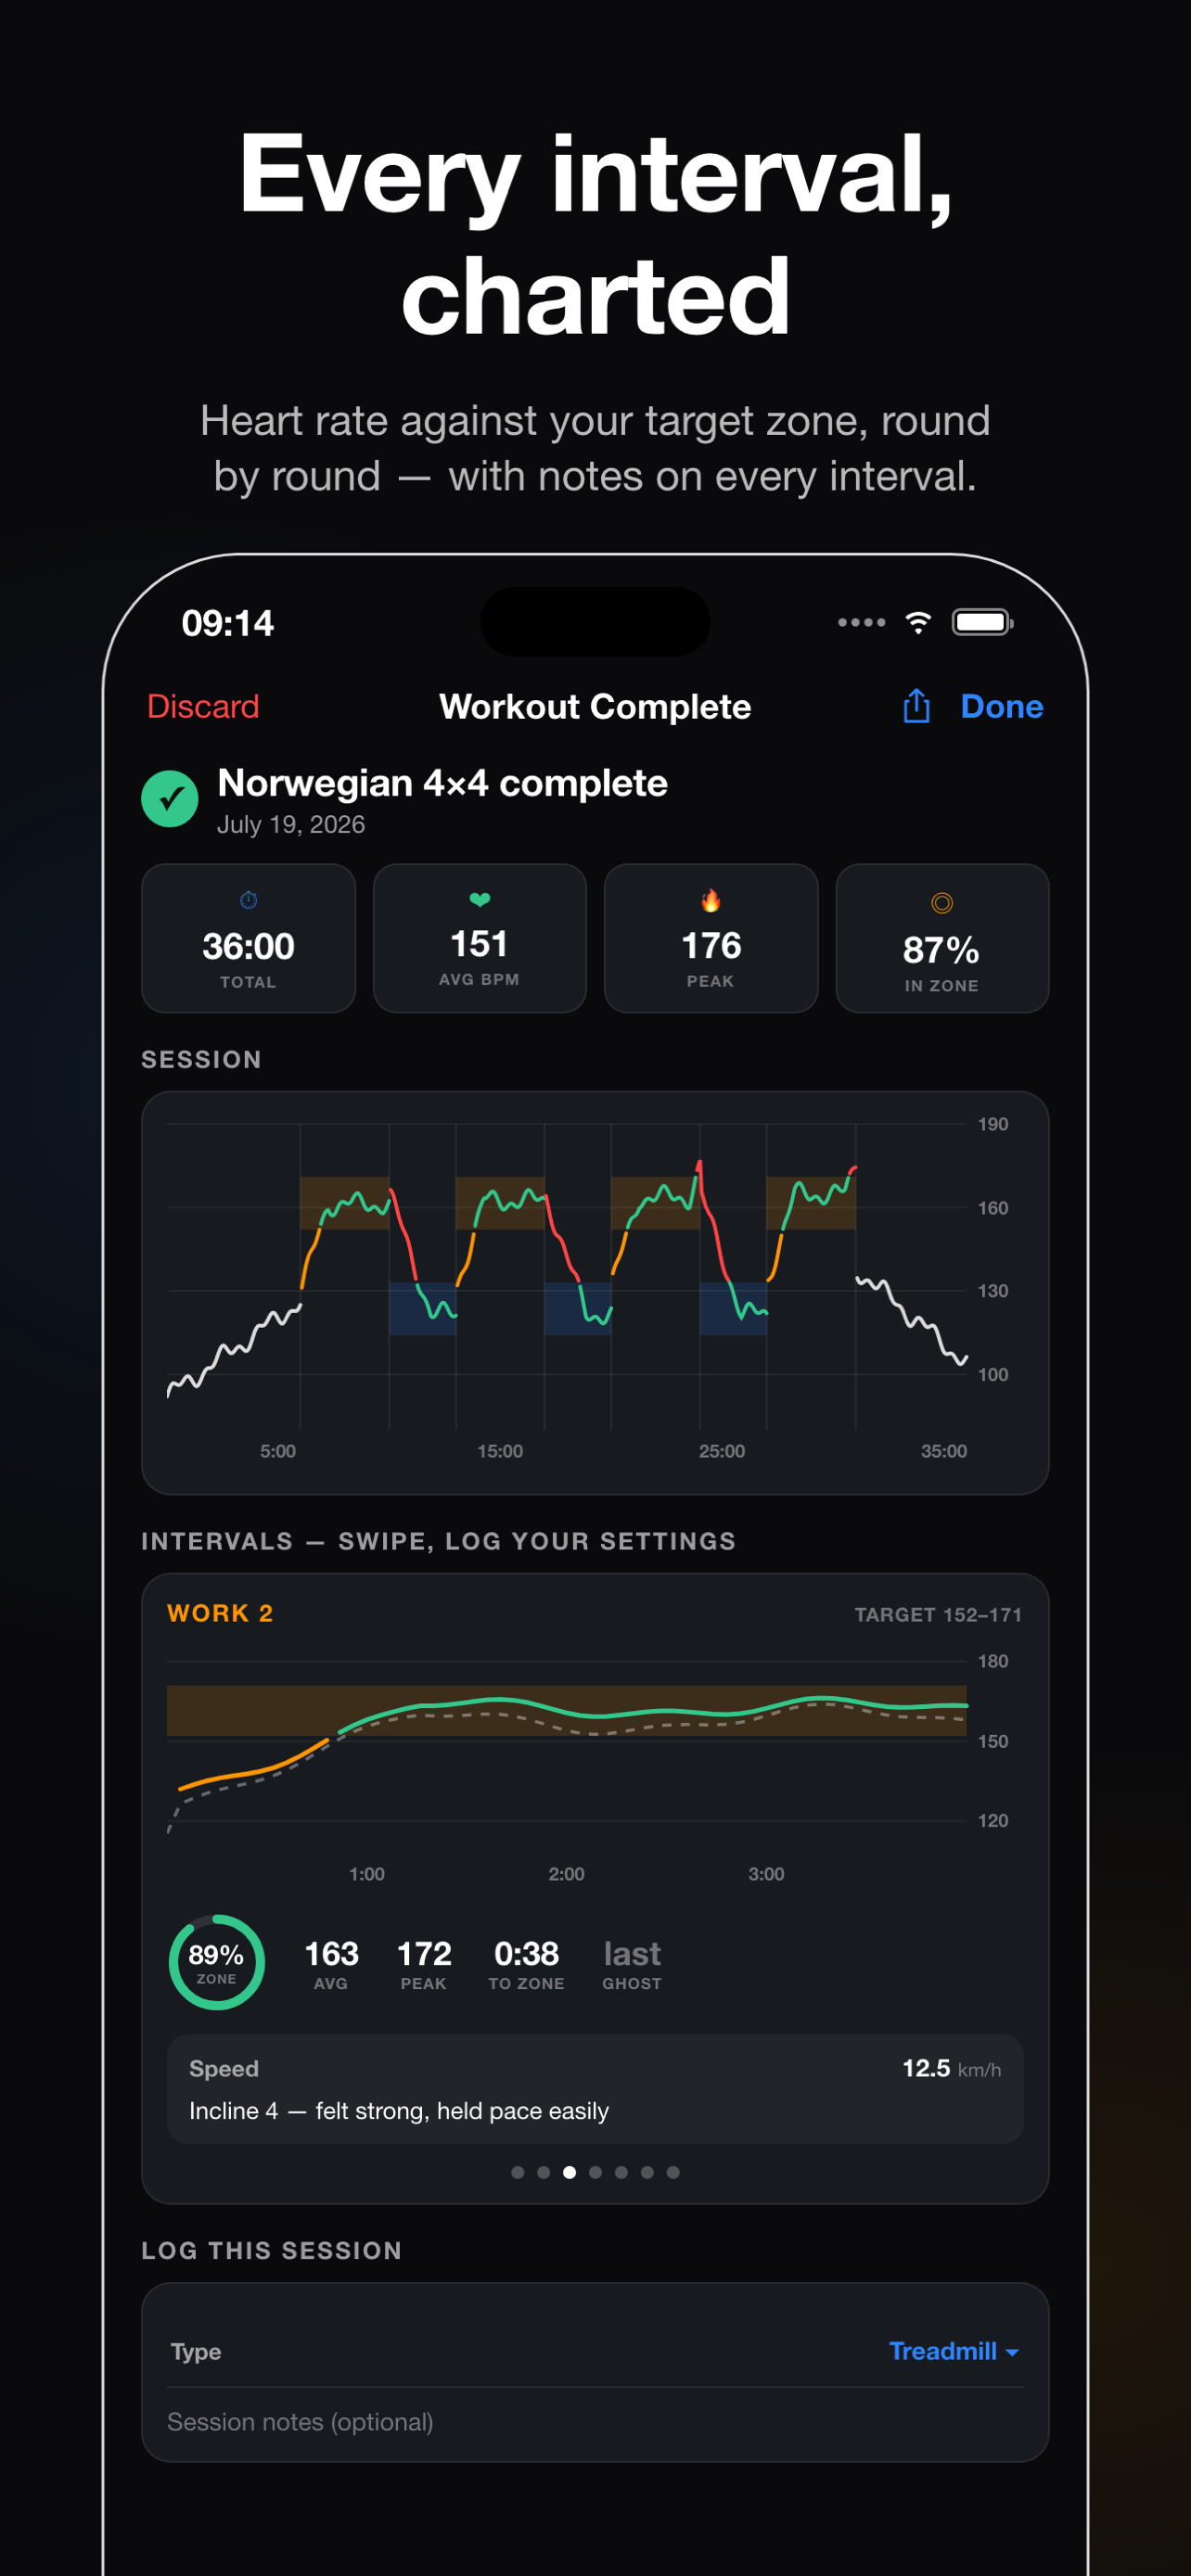
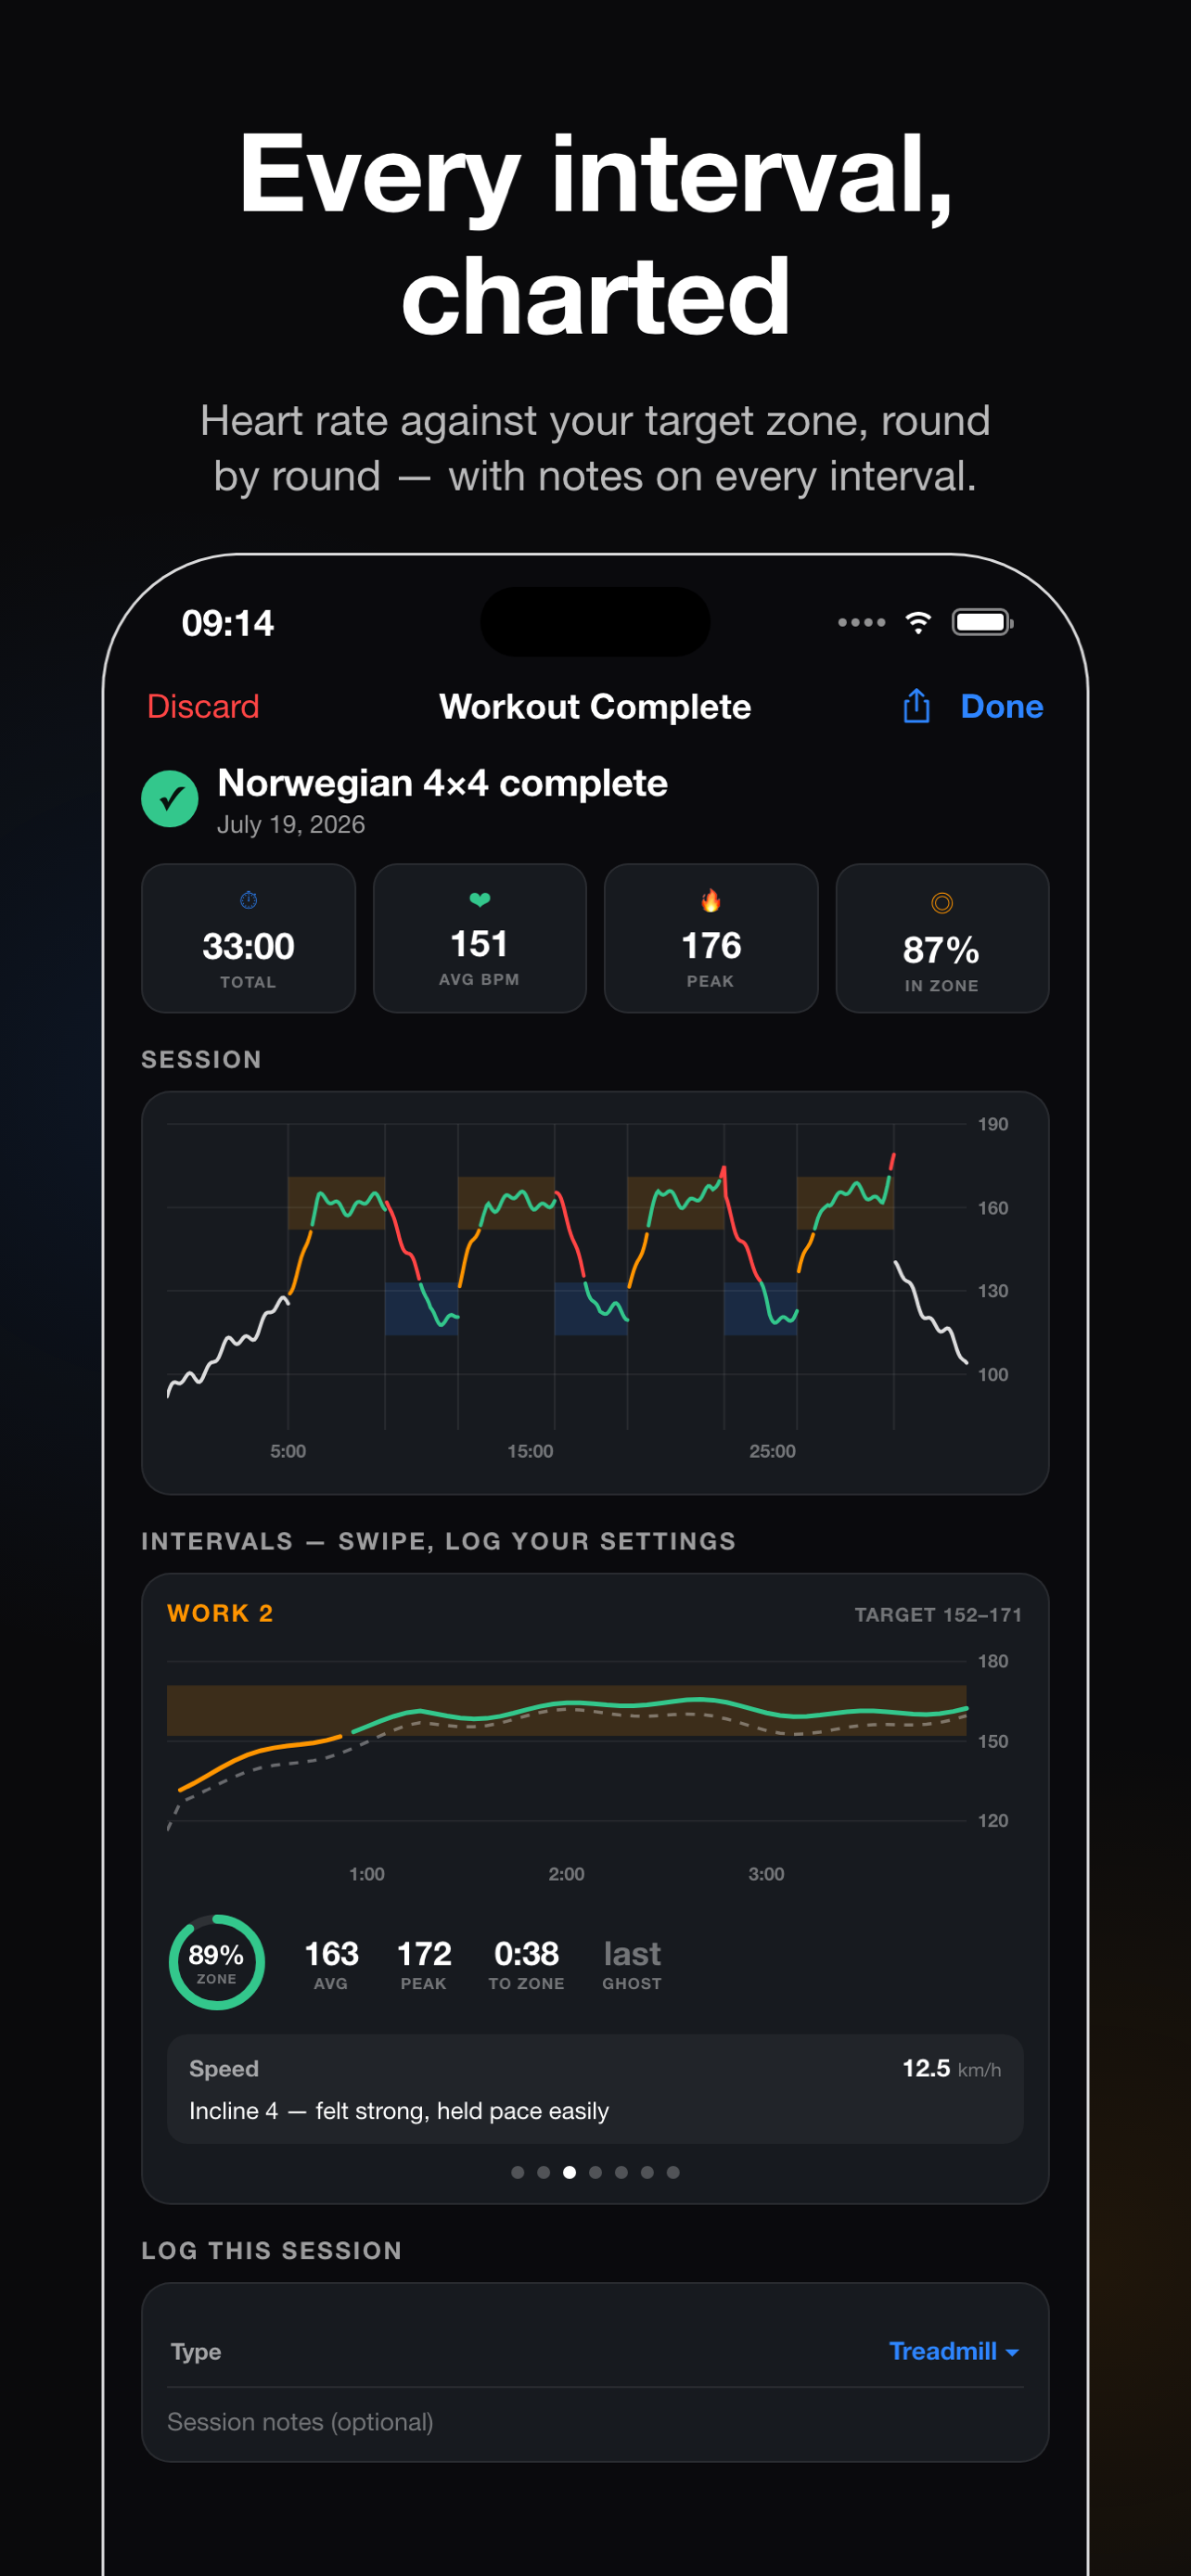
Marketing tier 2: product-led restructure
Lead with what the app does, keep the longevity story as the reason to
care rather than the headline claim.

Website:
- Hero: "33 minutes. Once a week. Exactly hard enough." with a concrete
  subhead (what it does + which sensors + VO2), replacing the bare
  "More life" longevity promise.
- Reordered so the product leads: Protocol -> app-in-action -> Apple
  Watch -> Supported devices, with the deep VO2 science moved below,
  before the video and science cards. One clean block move; layout and
  tag balance verified, rendering confirmed.
- Watch SVG aria-labels updated 172 -> 148 to match the corrected face.

App Store (docs):
- Description rewritten job-first per the review: opens on "train the
  4x4 without watching the clock or guessing your effort," then compact
  outcome lists. Trimmed ~25% (2734 -> 2040). Colour claim kept (it is
  instant); spoken/haptic framed as sustained-deviation nudges. Closes
  "start with one session a week, add a second when ready" (tempers the
  once-a-week efficacy implication). 33 min, not 35.
- Promotional text is now release-focused (161/170).
- Screenshot captions reordered to zones -> watch -> summary -> history
  -> home, so the first three carry the whole pitch and the
  differentiated post-workout report gets third place.

Assets:
- 05-summary card total 36:00 -> 33:00 to match the 33-minute default;
  re-rendered both 6.9" and 6.7" sizes.

diff --git a/website/index.html b/website/index.html
@@ -47,10 +47,10 @@
         <h1 class="hero-headline animate-in delay-1">
             33 minutes.<br>
             Once a week.<br>
-            <span class="gradient-text">More life.</span>
+            <span class="gradient-text">Exactly hard enough.</span>
         </h1>
         <p class="hero-sub animate-in delay-2">
-            Your VO₂ max is the number researchers tie most closely to how long, and how well, you'll live. If you do one thing for your health, make it the workout proven to raise it — and let N4x4 coach you through every minute.
+            N4x4 coaches the Norwegian 4x4 with live heart rate — from Apple Watch, Garmin, WHOOP, or any Bluetooth monitor — so every interval lands in the zone that builds your VO₂ max, the fitness marker most tied to how well you age.
         </p>
         <div class="hero-actions animate-in delay-3">
             <a href="https://apps.apple.com/app/id6686407796" target="_blank" class="store-badge-link">
@@ -66,7 +66,7 @@
         <div class="watch-mock">
             <div class="watch-device">
                 <div class="watch-face">
-                    <svg viewBox="0 0 210 256" preserveAspectRatio="xMidYMid meet" xmlns="http://www.w3.org/2000/svg" role="img" aria-label="Apple Watch Ultra running N4x4 — live heart rate 172 BPM with a Speed Up cue">
+                    <svg viewBox="0 0 210 256" preserveAspectRatio="xMidYMid meet" xmlns="http://www.w3.org/2000/svg" role="img" aria-label="Apple Watch Ultra running N4x4 — live heart rate 148 BPM with a Speed Up cue">
                         <text x="105" y="34" text-anchor="middle" fill="#FF9400" font-size="11" font-weight="700" letter-spacing="1.5">HIGH INTENSITY</text>
                         <text x="105" y="51" text-anchor="middle" fill="#8b8b90" font-size="11" font-weight="600" letter-spacing="0.5">INTERVAL 3 / 4 · 4:00</text>
                         <g transform="rotate(-90 105 132)">
@@ -114,44 +114,6 @@
             <span class="stat-number">5×</span>
             <span class="stat-label">mortality gap between the<br>fittest and least fit*</span>
         </div>
-    </div>
-</section>
-
-<!-- ───────────────── VO2 MAX SCIENCE ───────────────── -->
-<section class="section vo2-section">
-    <div class="container">
-        <div class="section-label animate-in">WHY VO2 MAX</div>
-        <h2 class="section-headline animate-in delay-1">
-            The fitness marker most<br>tied to how you age.
-        </h2>
-
-        <blockquote class="quote-block animate-in delay-2">
-            <p class="quote-text">"Cardiorespiratory fitness, as measured by VO2 max, is the single greatest predictor of lifespan — more than smoking, more than diabetes, more than heart disease."</p>
-            <cite class="quote-cite">— Dr. Peter Attia, MD · Author of <em>Outlive</em> (his view; not affiliated with N4x4)</cite>
-        </blockquote>
-
-        <div class="vo2-cards">
-            <div class="vo2-card animate-in delay-1">
-                <div class="vo2-card-icon">📉</div>
-                <h3 class="vo2-card-title">It declines with age</h3>
-                <p class="vo2-card-body">VO2 max tends to drop roughly <strong>10% per decade</strong> after your mid-20s without targeted training — but focused intervals are one of the most effective ways to push back.</p>
-            </div>
-            <div class="vo2-card animate-in delay-2">
-                <div class="vo2-card-icon">🫀</div>
-                <h3 class="vo2-card-title">Fitness tracks with health</h3>
-                <p class="vo2-card-body">In a study of 122,000 patients, the <strong>least-fit quartile</strong> had a higher mortality risk than smoking, hypertension, or diabetes. Association, not a guarantee — but a strong signal.</p>
-            </div>
-            <div class="vo2-card animate-in delay-3">
-                <div class="vo2-card-icon">🔬</div>
-                <h3 class="vo2-card-title">Intervals raise it efficiently</h3>
-                <p class="vo2-card-body">High-intensity intervals are among the <strong>most efficient ways</strong> to raise VO2 max, more so than steady-state cardio. The Norwegian 4x4 is one of the most studied protocols for it.</p>
-            </div>
-        </div>
-
-        <p class="vo2-sources animate-in delay-3" style="margin-top:28px;font-size:0.82rem;color:rgba(255,255,255,0.4);line-height:1.6;text-align:center;">
-            *Sources: <a href="https://jamanetwork.com/journals/jamanetworkopen/fullarticle/2707428" target="_blank" rel="noopener" style="color:rgba(255,255,255,0.6);">Mandsager et al., JAMA Network Open, 2018</a> (fitness &amp; mortality, 122,007 patients) ·
-            <a href="https://pubmed.ncbi.nlm.nih.gov/17414804/" target="_blank" rel="noopener" style="color:rgba(255,255,255,0.6);">Helgerud et al., 2007</a> (the 4×4 protocol). Cardiorespiratory fitness is associated with long-term health; it is not a promise of any individual outcome.
-        </p>
     </div>
 </section>
 
@@ -317,7 +279,7 @@
                 <div class="watch-mock">
                     <div class="watch-device">
                         <div class="watch-face">
-                            <svg viewBox="0 0 210 256" preserveAspectRatio="xMidYMid meet" xmlns="http://www.w3.org/2000/svg" role="img" aria-label="Apple Watch Ultra running N4x4 — live heart rate 172 BPM with a Speed Up cue">
+                            <svg viewBox="0 0 210 256" preserveAspectRatio="xMidYMid meet" xmlns="http://www.w3.org/2000/svg" role="img" aria-label="Apple Watch Ultra running N4x4 — live heart rate 148 BPM with a Speed Up cue">
                                 <text x="105" y="34" text-anchor="middle" fill="#FF9400" font-size="11" font-weight="700" letter-spacing="1.5">HIGH INTENSITY</text>
                                 <text x="105" y="51" text-anchor="middle" fill="#8b8b90" font-size="11" font-weight="600" letter-spacing="0.5">INTERVAL 3 / 4 · 4:00</text>
                                 <g transform="rotate(-90 105 132)">
@@ -389,6 +351,44 @@
                 <p class="feature-body">Not sure how to switch broadcasting on? The in-app device guide has exact, per-model steps — and flags older watches that only broadcast over ANT+, which iPhones can't receive.</p>
             </div>
         </div>
+    </div>
+</section>
+
+<!-- ───────────────── VO2 MAX SCIENCE ───────────────── -->
+<section class="section vo2-section">
+    <div class="container">
+        <div class="section-label animate-in">WHY VO2 MAX</div>
+        <h2 class="section-headline animate-in delay-1">
+            The fitness marker most<br>tied to how you age.
+        </h2>
+
+        <blockquote class="quote-block animate-in delay-2">
+            <p class="quote-text">"Cardiorespiratory fitness, as measured by VO2 max, is the single greatest predictor of lifespan — more than smoking, more than diabetes, more than heart disease."</p>
+            <cite class="quote-cite">— Dr. Peter Attia, MD · Author of <em>Outlive</em> (his view; not affiliated with N4x4)</cite>
+        </blockquote>
+
+        <div class="vo2-cards">
+            <div class="vo2-card animate-in delay-1">
+                <div class="vo2-card-icon">📉</div>
+                <h3 class="vo2-card-title">It declines with age</h3>
+                <p class="vo2-card-body">VO2 max tends to drop roughly <strong>10% per decade</strong> after your mid-20s without targeted training — but focused intervals are one of the most effective ways to push back.</p>
+            </div>
+            <div class="vo2-card animate-in delay-2">
+                <div class="vo2-card-icon">🫀</div>
+                <h3 class="vo2-card-title">Fitness tracks with health</h3>
+                <p class="vo2-card-body">In a study of 122,000 patients, the <strong>least-fit quartile</strong> had a higher mortality risk than smoking, hypertension, or diabetes. Association, not a guarantee — but a strong signal.</p>
+            </div>
+            <div class="vo2-card animate-in delay-3">
+                <div class="vo2-card-icon">🔬</div>
+                <h3 class="vo2-card-title">Intervals raise it efficiently</h3>
+                <p class="vo2-card-body">High-intensity intervals are among the <strong>most efficient ways</strong> to raise VO2 max, more so than steady-state cardio. The Norwegian 4x4 is one of the most studied protocols for it.</p>
+            </div>
+        </div>
+
+        <p class="vo2-sources animate-in delay-3" style="margin-top:28px;font-size:0.82rem;color:rgba(255,255,255,0.4);line-height:1.6;text-align:center;">
+            *Sources: <a href="https://jamanetwork.com/journals/jamanetworkopen/fullarticle/2707428" target="_blank" rel="noopener" style="color:rgba(255,255,255,0.6);">Mandsager et al., JAMA Network Open, 2018</a> (fitness &amp; mortality, 122,007 patients) ·
+            <a href="https://pubmed.ncbi.nlm.nih.gov/17414804/" target="_blank" rel="noopener" style="color:rgba(255,255,255,0.6);">Helgerud et al., 2007</a> (the 4×4 protocol). Cardiorespiratory fitness is associated with long-term health; it is not a promise of any individual outcome.
+        </p>
     </div>
 </section>
 

diff --git a/AppStore/make-summary-screenshot.html b/AppStore/make-summary-screenshot.html
@@ -176,7 +176,7 @@ svg text { font-family: -apple-system, "Helvetica Neue", sans-serif; }
     </div>
 
     <div class="chips">
-      <div class="chip"><div class="icon" style="color:var(--blue)">&#x23F1;</div><div class="val">36:00</div><div class="lbl">TOTAL</div></div>
+      <div class="chip"><div class="icon" style="color:var(--blue)">&#x23F1;</div><div class="val">33:00</div><div class="lbl">TOTAL</div></div>
       <div class="chip"><div class="icon" style="color:var(--recovery)">&#x2764;</div><div class="val">151</div><div class="lbl">AVG BPM</div></div>
       <div class="chip"><div class="icon" style="color:var(--danger)">&#x1F525;</div><div class="val">176</div><div class="lbl">PEAK</div></div>
       <div class="chip"><div class="icon" style="color:var(--amber)">&#x25CE;</div><div class="val">87%</div><div class="lbl">IN ZONE</div></div>
@@ -235,12 +235,12 @@ svg text { font-family: -apple-system, "Helvetica Neue", sans-serif; }
 // ── Shared session model: warmup 6:00 · 4×(4:00 work + 3:00 recovery) · cooldown
 const spans = [];
 let t = 0;
-spans.push({kind:'warmup', start:t, end:t+=360, lo:0,  hi:0});
+spans.push({kind:'warmup', start:t, end:t+=300, lo:0,  hi:0});
 for (let i = 1; i <= 4; i++) {
   spans.push({kind:'work', n:i, start:t, end:t+=240, lo:152, hi:171});
   if (i < 4) spans.push({kind:'recovery', start:t, end:t+=180, lo:114, hi:133});
 }
-spans.push({kind:'cooldown', start:t, end:t+=300, lo:0, hi:0});
+spans.push({kind:'cooldown', start:t, end:t+=180, lo:0, hi:0});
 const TOTAL = t;
 
 // Plausible HR trace: climbs in work, falls in recovery, mild drift per round.
@@ -326,7 +326,7 @@ function drawChart(svg, x0, x1, yLo, yHi, opts) {
 }
 
 drawChart(document.getElementById('strip'), 0, TOTAL, 80, 190,
-  { yTicks: [100, 130, 160, 190], xTicks: [300, 900, 1500, 2100], lw: 4 });
+  { yTicks: [100, 130, 160, 190], xTicks: [300, 900, 1500], lw: 4 });
 
 const w2 = spans.find(sp => sp.kind === 'work' && sp.n === 2);
 drawChart(document.getElementById('zoom'), w2.start, w2.end, 108, 185,

diff --git a/docs/app-store-description-2026-07-19.md b/docs/app-store-description-2026-07-19.md
@@ -9,89 +9,79 @@ VO2 max interval training
 
 ## Promotional text (170 chars max)
 
-If you do one thing for your health this year, make it this. Four minutes
-hard, three easy, once a week. N4x4 coaches every rep and shows you it's
-working.
+New: live coaching from Apple Watch, Garmin, WHOOP, and Bluetooth monitors,
+plus a post-workout report that shows exactly how well you held each
+interval's zone.
 
 ## Description (ready to paste)
 
-If you're going to spend time on your health, spend it where it pays back the
-most. That's this.
+Train the Norwegian 4x4 without watching the clock or guessing your effort.
 
-Your VO2 max is the single number researchers tie most closely to how long,
-and how well, you'll live. The Norwegian 4x4 is the interval protocol from
-decades of studying it: four rounds of four minutes hard, three minutes easy.
-Thirty-three minutes. Once a week.
+N4x4 reads your live heart rate — from Apple Watch, Garmin, WHOOP, Polar, or
+any Bluetooth monitor — and turns it into clear push, hold, and ease-off cues
+through every interval. When you finish, you see exactly how long you held the
+target zone, and how today compared with last time.
 
-N4x4 makes those thirty-three minutes count, keeps you coming back, and shows
-you the payoff.
+Four 4-minute efforts, three easy recoveries. 33 minutes, warm-up and cooldown
+included. It trains VO2 max, the fitness marker most closely tied to how well
+you age, and it's one of the most studied ways to raise it. If you're going to
+invest time in your health, this is a strong place to start.
 
-PUSH EXACTLY HARD ENOUGH
-Too easy and it doesn't work. Too hard and you can't repeat it. N4x4 reads
-your heart rate live and holds you in the sweet spot: your target zones come
-from your own max heart rate, and the number on screen turns orange the moment
-you should speed up and red when you should ease off, on both iPhone and Apple
-Watch. No guessing whether it counted. You'll know.
+HIT THE RIGHT ZONE
+• Target zones calculated from your own max heart rate
+• The number turns orange when you're below the zone and red when you're
+  above, on both iPhone and Apple Watch
+• Spoken and haptic nudges when you drift out and stay out
 
-USE WHAT'S ALREADY ON YOUR WRIST
-• Apple Watch: install N4x4 on your wrist and heart rate streams
-  automatically, with a tap, a spoken cue, or colour when you drift out of zone.
-• Garmin: turn on Broadcast Heart Rate and your watch becomes the sensor.
-• WHOOP: switch on HR Broadcast in the WHOOP app.
-• Polar, Wahoo, COROS, and any Bluetooth chest strap or armband.
-If a device doesn't show up, the built-in guide has exact, per-model steps.
+USE THE SENSOR YOU ALREADY OWN
+• Apple Watch: install N4x4 on your wrist and heart rate streams automatically
+• Garmin (Broadcast Heart Rate), WHOOP (HR Broadcast), Polar, Wahoo, COROS
+• Any standard Bluetooth chest strap or armband
+• A built-in guide with exact, per-model setup steps
 
 EASY TO KEEP THE HABIT
-The hard part of any workout is doing it again next week. N4x4 removes the
-friction:
-• Voice coaching talks you through every interval — start, halfway, ten
-  seconds, and the heart rate to hold — with the phone locked in your pocket,
-  quietly lowering your music while it speaks.
-• A reminder on your training day, and a gentle nudge if you miss it.
-• A weekly streak that makes consistency feel good.
-• Live Activity on the Lock Screen and Dynamic Island so the timer's always
-  there.
+• Voice coaching through every interval, with the phone locked and your music
+  ducked
+• A reminder on your training day, and a nudge if the week slips by
+• Weekly streaks, and a Live Activity on the Lock Screen and Dynamic Island
 
 FINISH WITH PROOF
-The moment you stop, see the whole session: your heart rate drawn against the
-target band for every interval, how long you held the zone, how fast you got
-there, and a ghost of last week's session laid over today's so progress is
-impossible to miss. Jot your treadmill speed, incline, or erg setting and a
-note per interval; next time it's already filled in.
+• Every interval charted against its target zone
+• Time in zone, time to zone, and a note per interval for your settings
+• Last session laid over today's, so progress is easy to see
 
-WATCH THE PAYOFF ARRIVE
-• Your VO2 max trend, pulled from Apple Health, climbing over the months
-• Weekly streaks, a training calendar, and milestones
-• Full history with the charts for every session you've saved
-• Share a session card when you want to
+SEE THE PAYOFF
+• Your VO2 max trend from Apple Health
+• Training calendar, milestones, and full session history
 
-Works on the treadmill, rower, bike, stair climber, or the open road — any
+Works on the treadmill, rower, bike, stair climber, or the open road, any
 cardio that gets your heart into the zone.
 
 No account. No subscription. No ads. Your data stays on your device and in
 Apple Health.
 
-One genuinely hard half-hour a week. Keep it, and the number that matters
-keeps climbing.
+Start with one hard session a week. Add a second when you're ready.
 
-## Screenshot captions (outcome-led, in display order)
+## Screenshot captions (in display order)
 
-Cards read as a story: why → during → honest effort → proof → payoff.
-Suggested order and captions (headline / subline):
+The first 1–3 screenshots appear in search results, so they carry the whole
+pitch: what it does, the differentiator, the proof. Recommended order (upload
+this order in App Store Connect):
 
-1. 01-home    — "The one number worth training" / "Your VO2 max, and the 33
-                 minutes a week that raise it."
-2. 02-zones   — "Push exactly hard enough" / "Hard enough to count. Easy
-                 enough to do again next week."
-3. 03-watch   — "Eyes on the road, coach on your wrist" / "Live heart rate and
-                 speed-up / slow-down cues, from your Watch, Garmin, or WHOOP."
-4. 05-summary — "Finish knowing it counted" / "Every interval charted against
-                 its target zone."
-5. 04-history — "Watch the payoff arrive" / "Your VO2 max and your streak,
-                 climbing week after week."
+1. 02-zones   — "Hit the right zone" / "Live heart-rate coaching for every
+                 interval."
+2. 03-watch   — "Your coach, on your wrist" / "Apple Watch haptics, voice, and
+                 real-time pacing."
+3. 05-summary — "Know whether it counted" / "Every interval charted against its
+                 target zone."
+4. 04-history — "Track the payoff over time" / "Your VO2 max, your sessions,
+                 your weekly streak."
+5. 01-home    — "Built around the number that matters" / "Your VO2 max, and the
+                 33 minutes a week that raise it."
 
-(Only the caption text changes; regenerate a card's PNG only if its headline
-changes — see AppStore/README.md.)
+The post-workout summary (05) is more differentiated than the history calendar,
+so it earns third place. Only the caption text changes; regenerate a card's PNG
+only if its on-image headline changes (see AppStore/README.md).
 
 ## What's New (short, ready to paste)
 